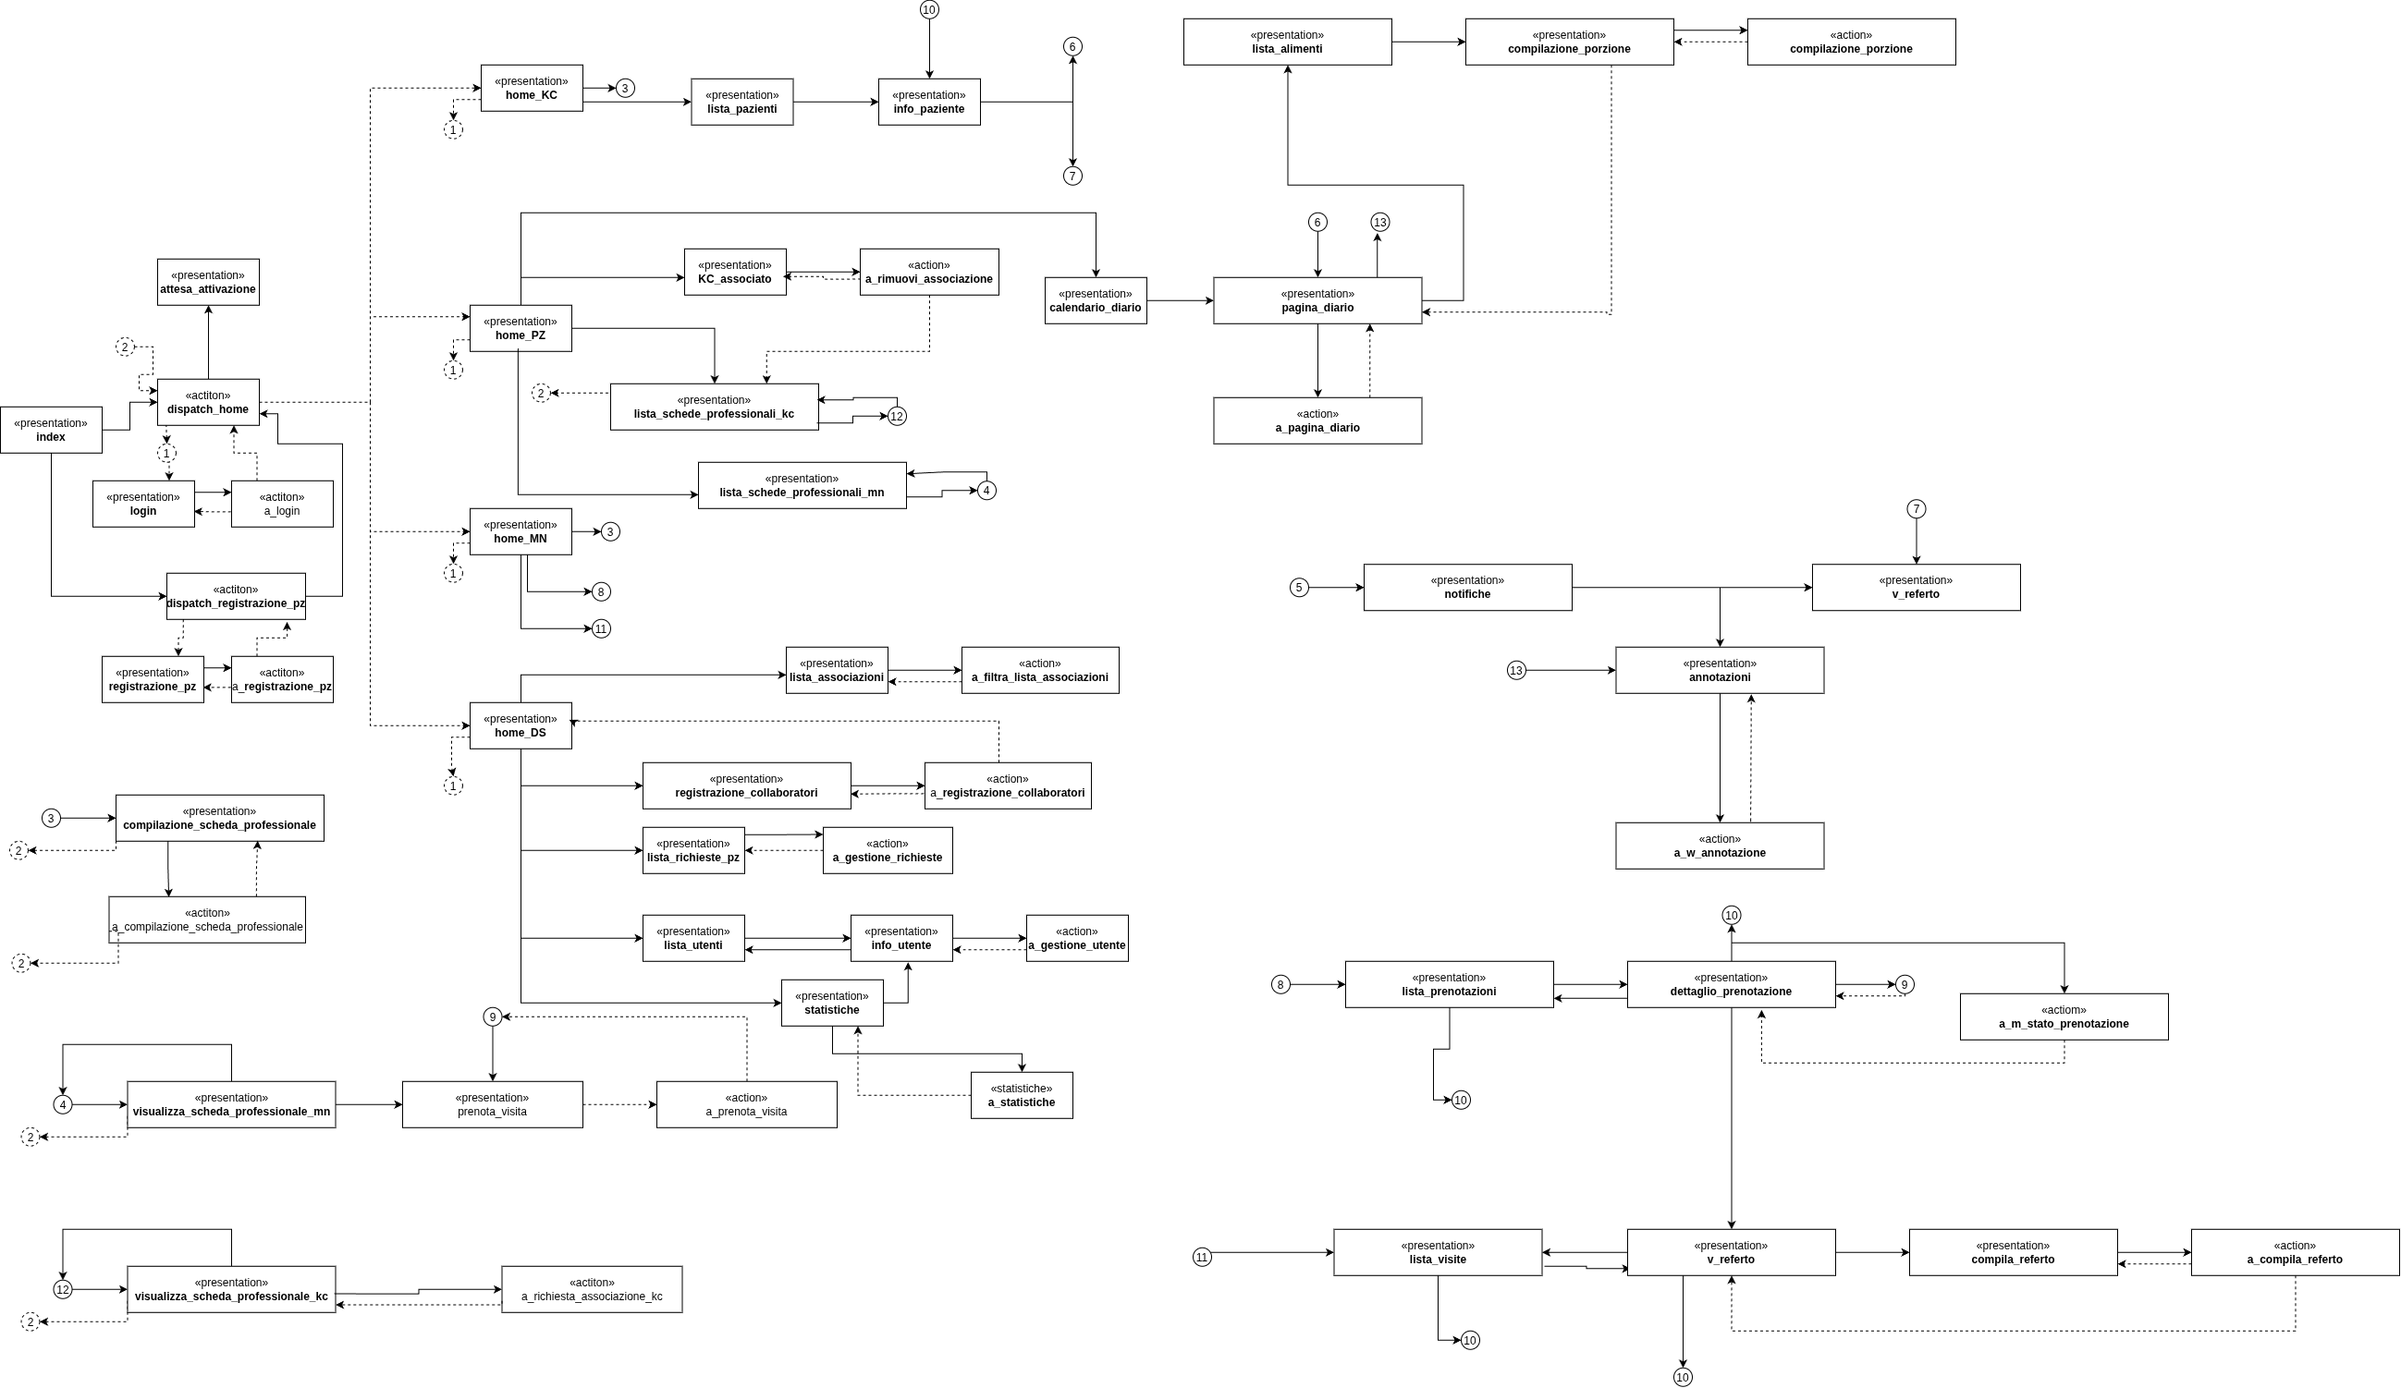
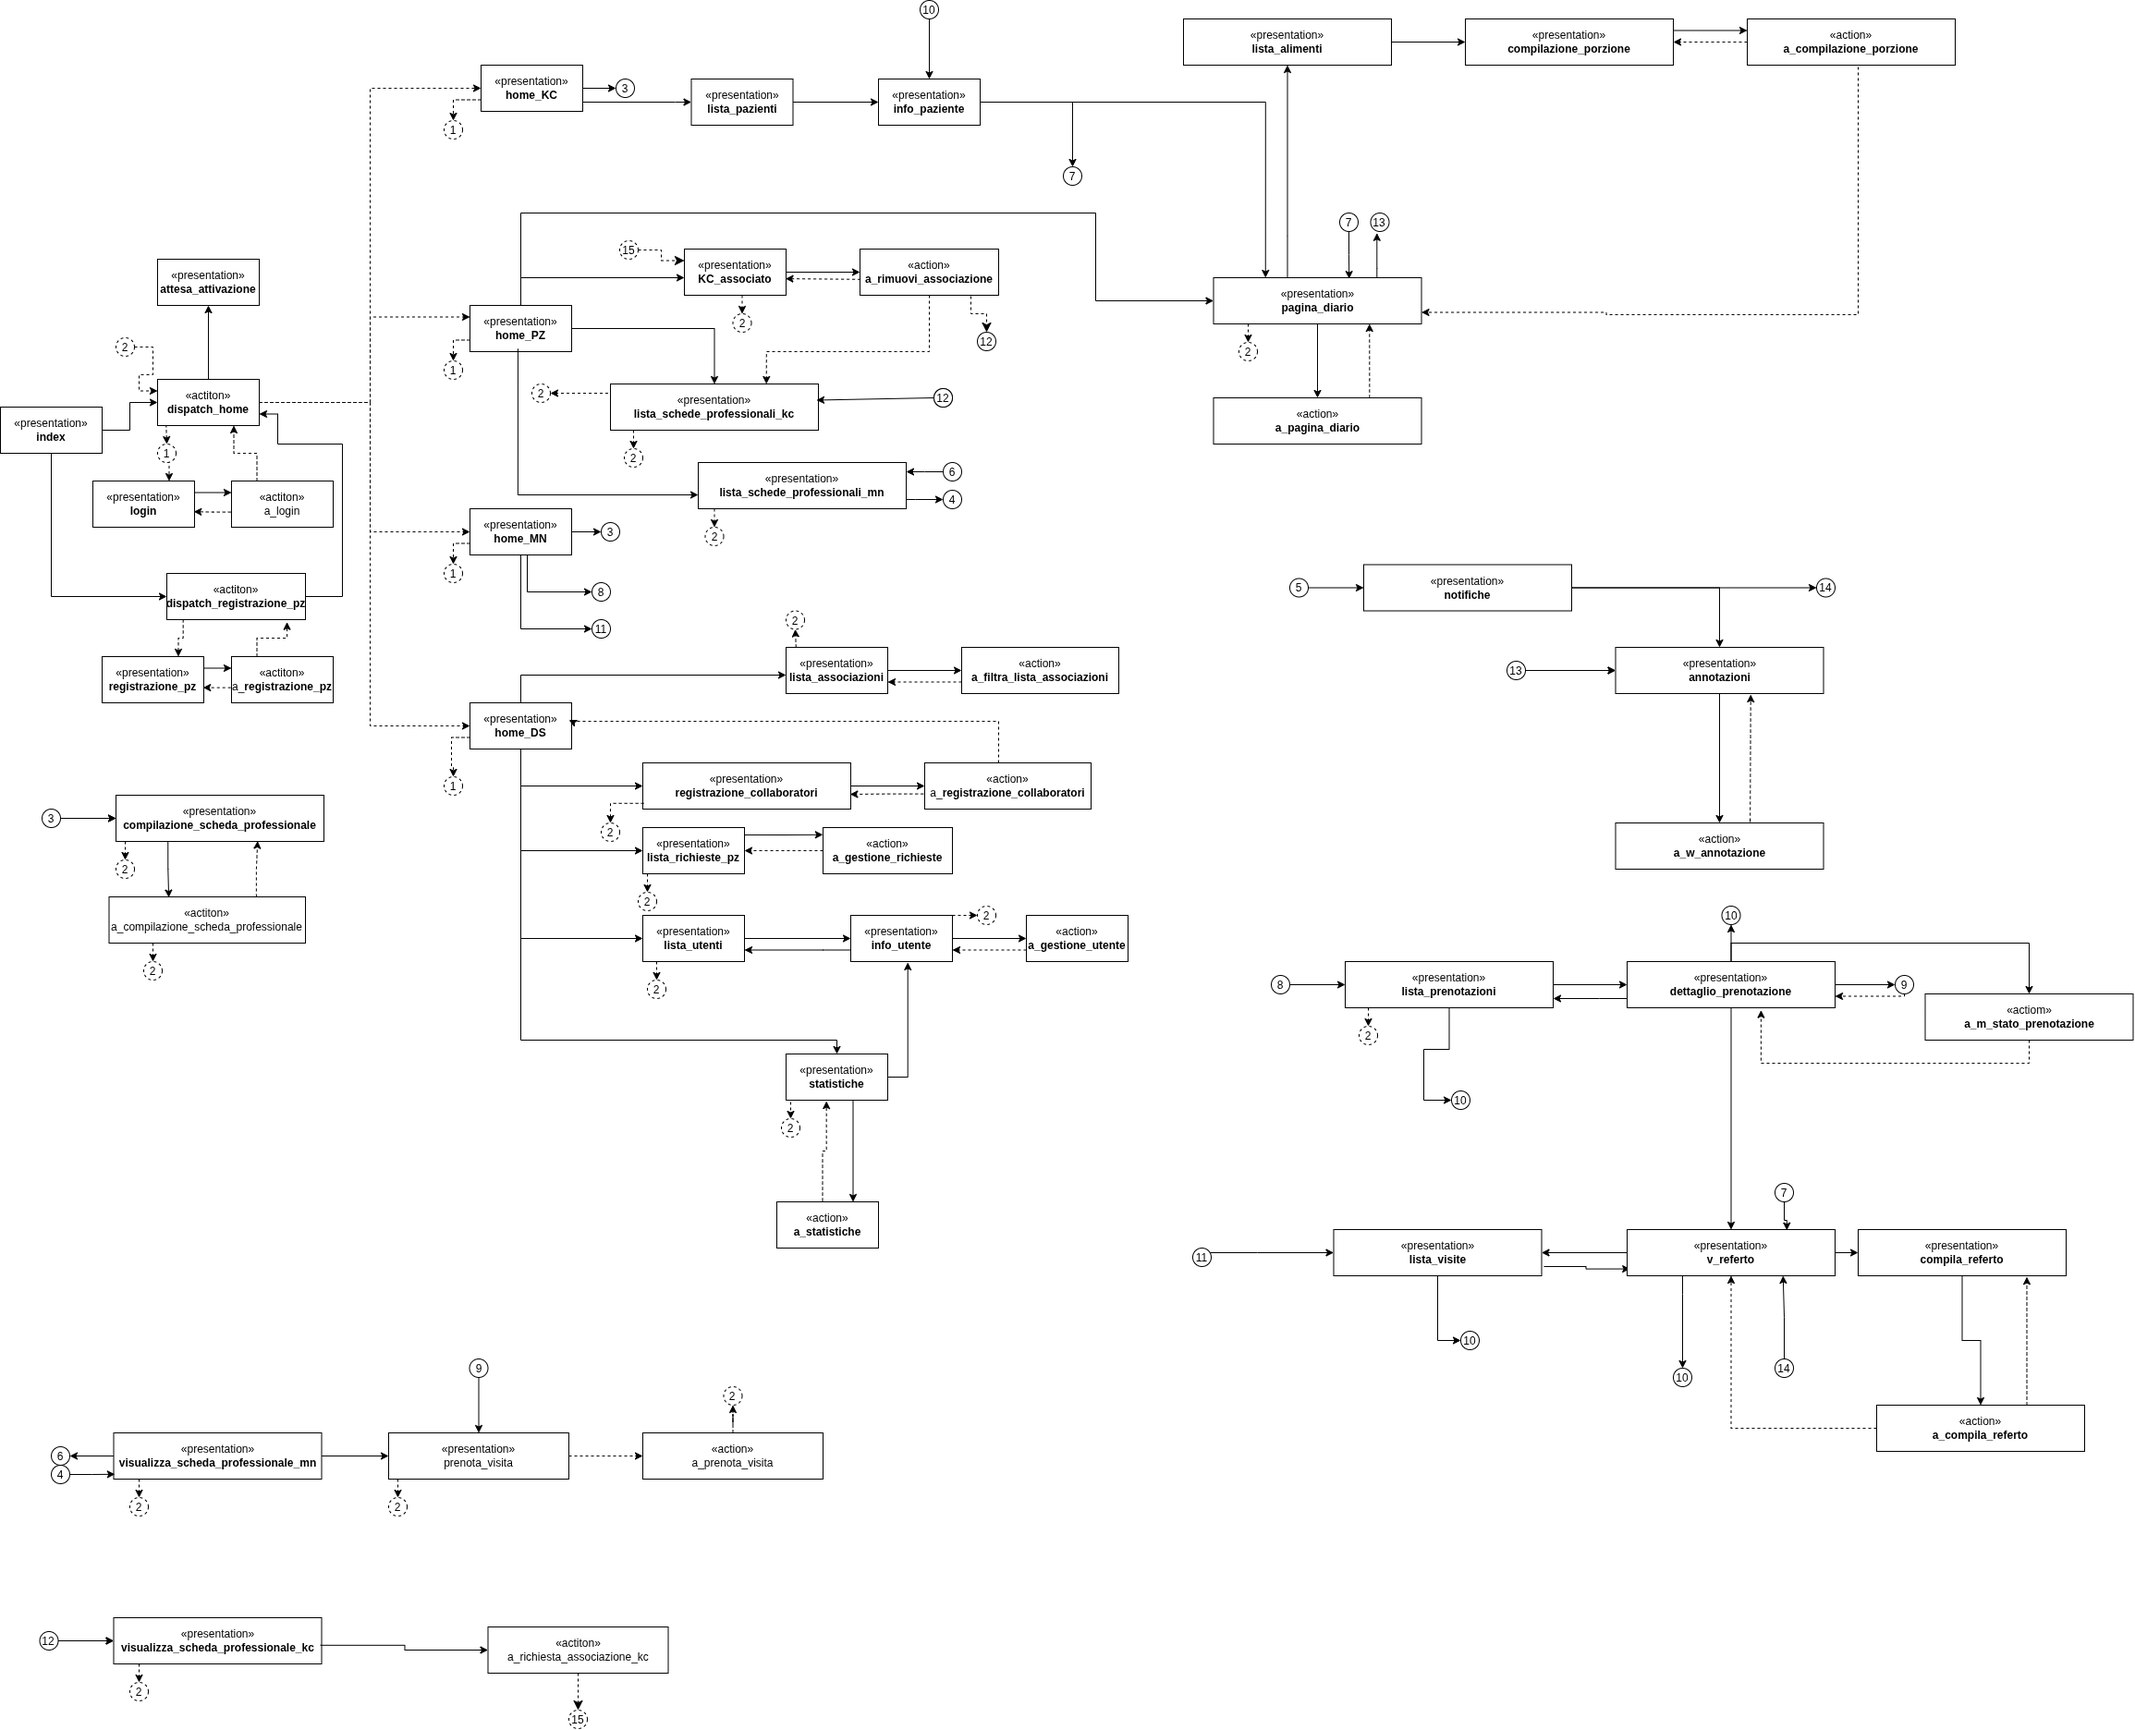
progressi in progetto.htm

diff --git a/progetto.htm b/progetto.htm
@@ -90,6 +90,10 @@
             <h4>a_compila_referto.jsp</h4>
             <p>Pagina di action che gestisce la compilazione dei referti medici</p>
         </li>
+         <li>
+            <h4>lista_visite.jsp</h4>
+            <p>visualizza lo storico, delle visite</p>
+        </li>
         <li>
             <h4>pagina_diario.jsp</h4>
             <p>Pagina che mostra la pagina per compilare (PZ) visualizzare (KC, MN, PZ) il diario alimentare, in
@@ -104,9 +108,9 @@
                 annotazioni.jsp, collegamento per visualizzare il referto associato.
             </p>
         </li>
-             <li>
+        <li>
             <h4>a_pagina_diario.jsp</h4>
-                <p>Pagina di action che gestisce l'inserimento della data di compilazione e del peso associato</p>
+            <p>Pagina di action che gestisce l'inserimento della data di compilazione e del peso associato</p>
         </li>
         <li>
             <h4>lista_alimenti.jsp</h4>
@@ -115,63 +119,170 @@
         </li>
         <li>
             <h4>compilazione_porzione.jsp</h4>
-            <p>Pagina con form di compilazione della porzione di alimento (scelto da lista_alimenti.jsp) che verra quindi inserina nella pagina del diario alimentare
+            <p>Pagina con form di compilazione della porzione di alimento (scelto da lista_alimenti.jsp) che verra
+                quindi inserina nella pagina del diario alimentare
                 (input hidden per id del diario e tipo pasto)
             </p>
-             
-    
+
+
         </li>
-              <li>
+        <li>
             <h4>a_compilazione_porzione.jsp</h4>
-            <p>Pagina che gestisce l'inserimento della porzione di alimento nel diario alimentare, e la rimozione della stessa
+            <p>Pagina che gestisce l'inserimento della porzione di alimento nel diario alimentare, e la rimozione della
+                stessa
             </p>
-             
-    
+
+
         </li>
-           <li>
+        <li>
             <h4>annotazioni.jsp</h4>
-                <p>Pagina che mostra una chat di annotazioni relativa ad una determinata pagina del diario, con possibilità di scrivere una nuova annotazione, come al paziente o al kc associato ad paziente a cui corrisponde la pagina del diario </p>
+            <p>Pagina che mostra una chat di annotazioni relativa ad una determinata pagina del diario, con possibilità
+                di scrivere una nuova annotazione, come al paziente o al kc associato ad paziente a cui corrisponde la
+                pagina del diario </p>
         </li>
-            </li>
-           <li>
-            <h4>annotazioni.jsp</h4>
-                <p>Pagina che mostra una chat di annotazioni relativa ad una determinata pagina del diario, con possibilità di scrivere una nuova annotazione, come al paziente o al kc associato ad paziente a cui corrisponde la pagina del diario </p>
-        </li>
-        </li>
-           <li>
+        <li>
             <h4>a_w_annotazioni.jsp</h4>
-                <p>Pagina action che permette di scrivere nuove annotazioni </p>
+            <p>Pagina action che permette di scrivere nuove annotazioni </p>
         </li>
-          </li>
-           <li>
-            <h4>a_w_annotazioni.jsp</h4>
-                <p>Pagina action che permette di scrivere nuove annotazioni </p>
-        </li>
-            <li>
+        <li>
             <h4> lista_schede_professionali_MN.jsp</h4>
-                <p>Pagina che mostra la lista di prewiew delle schede professionali dei  medici nutrizionisti,lpulsante che manda alla pagina v_scheda_professionale_mn.jsp per visualizzarne i dettagli</p>
+            <p>Pagina che mostra la lista di prewiew delle schede professionali dei medici nutrizionisti,lpulsante che
+                manda alla pagina v_scheda_professionale_mn.jsp per visualizzarne i dettagli</p>
         </li>
         <li>
             <h4> v_scheda_professionale_MN.jsp</h4>
-                <p>Pagina che mostra la scheda professionale di un medico nutrizionista, link di reindiziamento alla pagina di prenota visita al realativo medico</p>
+            <p>Pagina che mostra la scheda professionale di un medico nutrizionista, link di reindiziamento alla pagina
+                di prenota visita al realativo medico</p>
         </li>
-           <li>
+        <li>
             <h4> prenota_visita.jsp</h4>
-                <p>Pagina che mostra il form per la prenotazione di una visita da parte di un paziente, al medico nutrizionista selezionato nella pagina lista_schede_professionali_MN.jsp (quindi con un link alla pagina v_scheda_professionale_MN.jsp)</p>
+            <p>Pagina che mostra il form per la prenotazione di una visita da parte di un paziente, al medico
+                nutrizionista selezionato nella pagina lista_schede_professionali_MN.jsp (quindi con un link alla pagina
+                v_scheda_professionale_MN.jsp)</p>
         </li>
-            </li>
-           <li>
+        </li>
+        <li>
             <h4> a_prenota_visita.jsp</h4>
-                <p>Pagina che gestisce l'inserimento della prenotazione di una visita nel sistema, in particolare impedendo di prenotare una visita prima che siano passati 30 giorni dalla precedente</p>
+            <p>Pagina che gestisce l'inserimento della prenotazione di una visita nel sistema, in particolare impedendo
+                di prenotare una visita prima che siano passati 30 giorni dalla precedente</p>
         </li>
-
+          <li>
+            <h4> dettaglio_prenotazione.jsp</h4>
+            <p>Pagina il dettagglio della visita, cola possibilià da parte del medico di rifiutarla accettarla, e all'utente di cancellarla</p>
+        </li>
+            <li>
+            <h4> a_m_stato_prenotazione.jsp</h4>
+            <p>Pagina action che gestisce la modifica dello stato di una prenotazione</p>
+        </li>
+        <li>
+            <h4> lista_schede_professionali_KC.jsp</h4>
+            <p>Pagina che mostra la lista di prewiew delle schede professionali dei kitchen coach ,lpulsante che
+                manda alla pagina v_scheda_professionale_KC.jsp per visualizzarne i dettagli</p>
+        </li>
+        <li>
+            <h4> v_scheda_professionale_KC.jsp</h4>
+            <p>Pagina che mostra la scheda professionale di un kitchen coach, con possibilità di renderlo come KC attivo
+            </p>
+        </li>
+        <li>
+            <h4> a_richiesta_associazione.jsp</h4>
+            <p>Pagina action che permette di associare un kitchen coach a un paziente, reainderizza il
+                paziente alla pagina del kitchen coach corrente
+            </p>
+        </li>
+        <li>
+            <h4>KC_associato.jsp</h4>
+            <p>Pagina che mostra la scheda professionale di un kitchen coach attivo al momento di un detenminato
+                paziente, con possibilità di terminare l'associazione motivando tramite text area,
+            </p>
+        </li>
+        <li>
+            <h4> a_rimuovi_associazione.jsp</h4>
+            <p>Pagina action che permette di rimuovere l'associazione dal kitchen coach corrente del paziente, in
+                particolare reainderizza il
+                paziente alla pagina della lista schede professionali KC, oppure alla pagina della scheda professionale
+                di un KC specifico, nel caso in cui un paziente abbia provato in precendeza ad associarsi a tale KC, ma
+                bloccato dal sistema dal fatto che aveva già un KC attivo, (salvato tramite variabili di request) </p>
+        </li>
+        <li>
+            <h4> registrazione_collaboratori.jsp</h4>
+            <p>pagina che permette di registrare nuovi collaboratori agli utenti alla DS</p>
+        </li>
+        <li>
+            <h4> a_registrazione_collaboratori.jsp</h4>
+            <p>Pagina action che gestire l'inserimento dei dati dei collaboratori nel sistema</p>
+        </li>
+        <li>
+            <h4> compilazione_scheda_professionale.jsp</h4>
+            <p>Pagina che permette di compilare la scheda professionale ai KC e ai MN tramite un form</p>
+        </li>
+        <li>
+            <h4> a_compilazione_scheda_professionale.jsp</h4>
+            <p>Pagina action che gestire l'inserimento dei dati della scheda professionale nel sistema</p>
+        </li>
+              <li>
+            <h4> lista_richieste_pz.jsp</h4>
+            <p>Pagina che permette alla DS di visualizzare le rischieste di attivazione account pazienti, con un pulsante accetta o rifiuta per ogni richiesta</p>
+        </li>
+        <li>
+            <h4> a_gestione_richieste.jsp</h4>
+            <p>Pagina action che gestisce l'approvazione o il rifiuto delle richieste di attivazione account pazienti</p>
+        </li>
+        <li>
+            <h4> lista_utenti.jsp</h4>
+            <p>Pagina che permette di visualizzare la lista degli utenti registrati nel sistema, in particolare ha la possibilità di filtrare per ruolo, stato dell'account, data di nascita e ha la possibilità di  cercare un utente specifico tramite una "barra di ricerca"</p>
+        </li>
+         <li>
+            <h4>info_utente.jsp</h4>
+            <p>Pagina che permette di visualizzare i dettagli di un utente specifico, permettendo di agire sullo stato dell'account</p>
+        </li>
+         <li>
+            <h4>a_gestione_utente.jsp</h4>
+            <p>Pagina action che permette di gestire lo stato dell'account di un utente</p>
+        </li>
+   <li>
+            <h4>lista_associazioni.jsp</h4>
+            <p>Pagina che visualizza la lista delle associazioni tra pazienti e kitchen coaches  con la possibilità di filtrare la pagina </p>
+        </li>
+          <li>
+            <h4>a_filtra_lista_associazioni.jsp</h4>
+            <p>Pagina  action  che restituisce la lista delle associazioni filtrata in base ai parametri di ricerca inseriti nella pagina lista_associazioni.jsp
+            </p>
+        </li>
+         <li>
+            <h4>info_associazione.jsp</h4>
+            <p>Pagina  che permette di visualizzare nel dettaglio le informazioni relative ad una specifica associazione tra un paziente e un kitchen coach,e nel caso di associazione terminata mostra anche la motivazione della terminazione</p>
+        </li>
+           <li>
+            <h4>statistiche.jsp</h4>
+            <p>Pagina che permette di visualizzare statistiche della piattaforma e dei singoli utenti alla DS</p>
+        </li>
+             <li>
+            <h4>statistiche.jsp</h4>
+            <p>Pagina che permette di visualizzare statistiche della piattaforma e dei singoli utenti alla DS</p>
+            <!--- da valutare se separare in 2 pagine separate 1 per quella generale e 1 per quella utente -->
+        </li>
+         <li>
+            <h4>a_statistiche.jsp</h4>
+            <p>Pagina di action gestire i filtri sulle statistiche</p>
+            <!--- da valutare se separare in 2 pagine separate 1 per quella generale e 1 per quella utente -->
+        </li>
+           <li>
+            <h4>notifiche.jsp</h4>
+            <p>Pagina che mostra le notifiche agli utenti, con la possibilita di essere inoltrato alla pagina a cui la notifica si riferisce, segnare come visualizzato, e rimuovere</p>
+        </li>
+             <li>
+            <h4>a_notifiche.jsp</h4>
+            <p>Pagina  action  che gestisce le notifiche agli utenti, permettendo di segnarle come visualizzate e di rimuoverle, renderizzando l'utente alla pagina a cui la notifica si riferisce, e nel caso di rimozione invare il messaggi  di conferma rimozione</p>
+        </li>
     </ul>
 
 
 
-    <h1>Da completare</h1>
-    <h2>rimuovere a_compilazione_porzione.jsp e sostituirla con a_pagina_diario.jsp</h2>
-    <!--- da completare -->
+    <h1>Necessita revisione, e alcune modifiche al diagramma di navigazione in particolare riguarlo i link di ritorno alla pagina 
+        
+    </h1>
+    <h1> puoò essere utile una volta finite le pagine raggruppare le pagine in categorie di lavoro in modo da poter lavorare in maniera modulare e spuedo separata</h1>
 
 </body>
 
